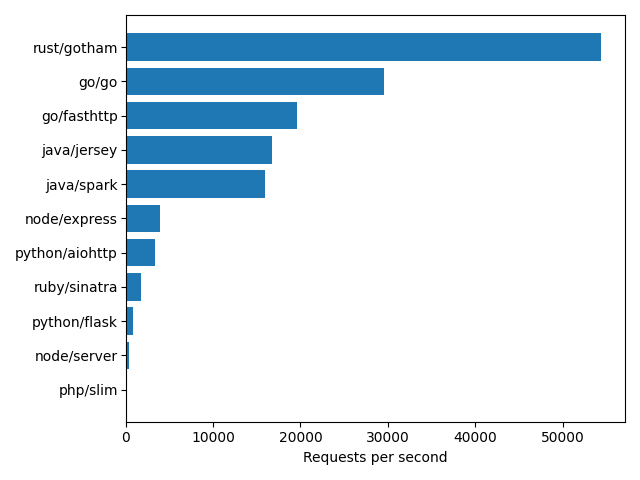
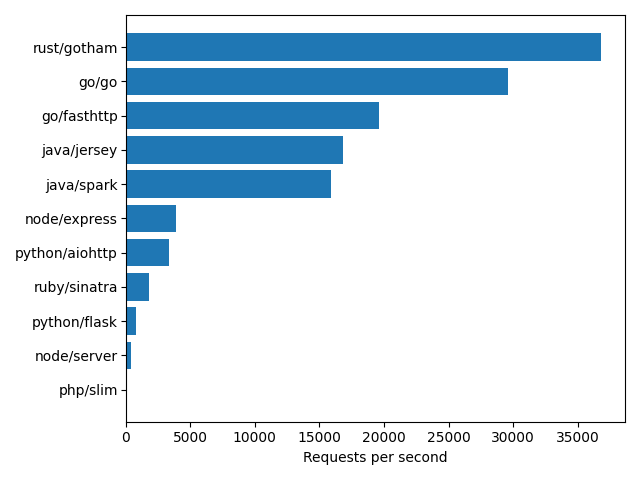
Update results

diff --git a/RESULTS.md b/RESULTS.md
@@ -286,9 +286,9 @@ HappyTest-PASS, ErrorTest-PASS
 Running 33s test @ http://127.0.0.1:8888/echo/HelloWorld?num=1234567890
   4 threads and 20 connections
   Thread Stats   Avg      Stdev     Max   +/- Stdev
-    Latency   353.75us  140.67us   5.43ms   76.28%
-    Req/Sec    13.67k   784.59    15.25k    68.50%
-  1800417 requests in 33.10s, 358.86MB read
-Requests/sec:  54394.16
-Transfer/sec:     10.84MB
+    Latency   549.74us  328.52us  15.64ms   85.61%
+    Req/Sec     9.26k   584.07    10.97k    75.49%
+  1218259 requests in 33.10s, 242.82MB read
+Requests/sec:  36806.16
+Transfer/sec:      7.34MB
 ```
